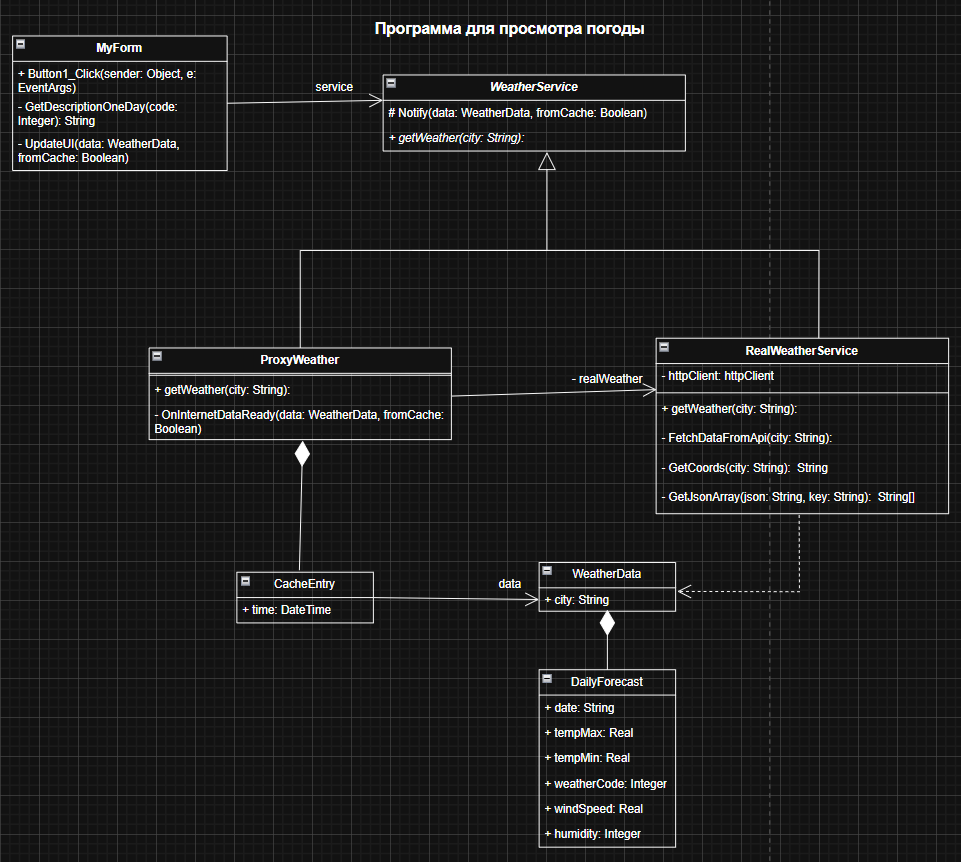
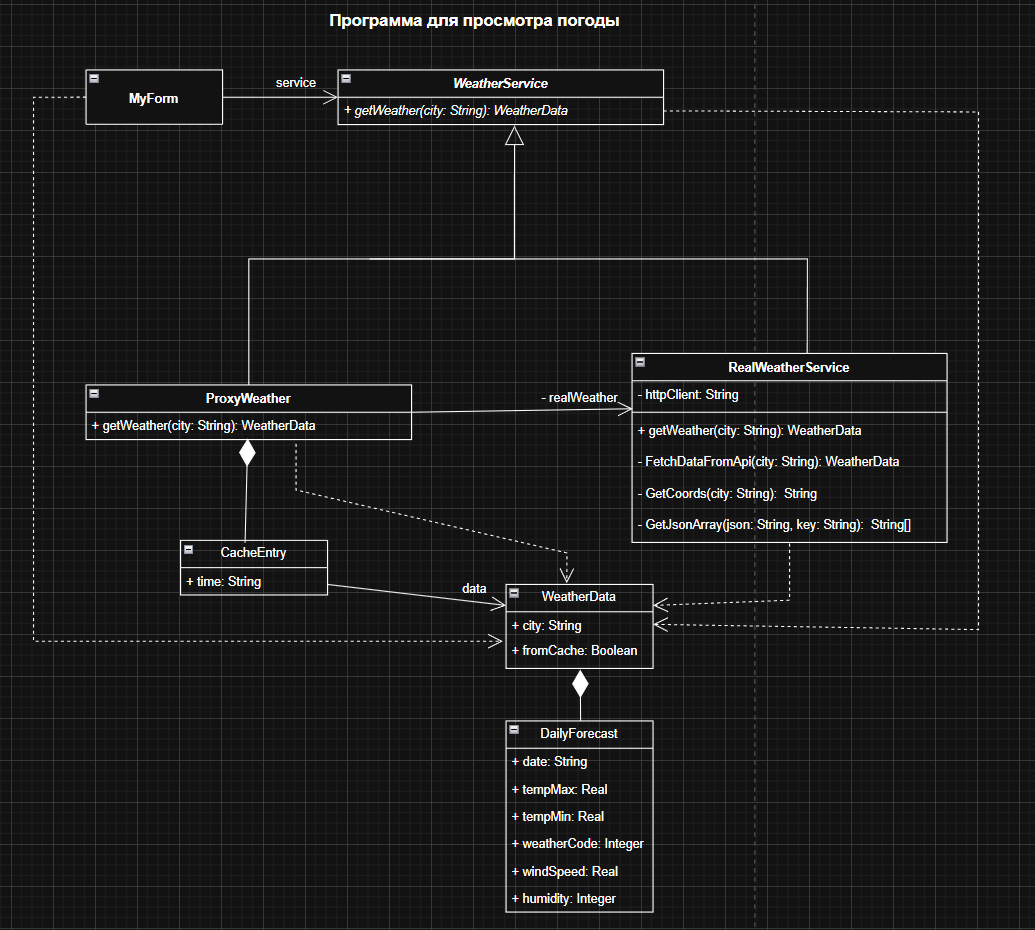
lb2 readme

diff --git a/lab02/lab2/lab2/WeatherLogic.h b/lab02/lab2/lab2/WeatherLogic.h
@@ -161,7 +161,7 @@ namespace lab2 {
 		virtual WeatherData^ getWeather(String^ city) override {
 			// логика кэша
 			if (cache->ContainsKey(city)) {
-				if ((DateTime::Now - cache[city]->time).TotalMinutes < 5) {
+				if ((DateTime::Now - cache[city]->time).TotalMinutes < 15) {
 
 					WeatherData^ cachedData = cache[city]->data; // выдача из кэша
 					cachedData->fromCache = true;

diff --git a/lab02/lab2_no_pattern/lab2/WeatherLogic.h b/lab02/lab2_no_pattern/lab2/WeatherLogic.h
@@ -54,7 +54,7 @@ namespace lab2 {
 		WeatherData^ getWeather(String^ city) {
 			// логика кэша
 			if (cache->ContainsKey(city)) {
-				if ((DateTime::Now - cache[city]->time).TotalMinutes < 5) {
+				if ((DateTime::Now - cache[city]->time).TotalMinutes < 15) {
 
 					WeatherData^ cachedData = cache[city]->data; // выдача из кэша
 					cachedData->fromCache = true;

diff --git a/lab02/README.md b/lab02/README.md
@@ -1,4 +1,29 @@
 ### Отчет
 
-**Диаграмма классов**
+**Описание проблемы.**
+
+В разрабатываемом приложении для просмотра прогноза погоды получение актуальных данных осуществляется через сетевые запросы к внешнему API (Open-Meteo). Основная проблема заключается в том, что пользователи могут многократно запрашивать погоду для одного и того же города за короткий промежуток времени (например, при случайном двойном клике или при частом переключении вкладок). Прямое обращение к внешнему сервису при каждом нажатии кнопки приводит к нерациональному использованию сетевого трафика, задержкам в обновлении пользовательского интерфейса (UI) и риску превышения лимитов на количество запросов к бесплатному API.
+
+**Решение и использование паттерна.**
+
+Для решения описанной проблемы в архитектуру приложения внедрен структурный паттерн проектирования «Заместитель».
+
+Вместо того чтобы форма напрямую обращалась к классу, выполняющему HTTP-запросы, взаимодействие происходит через общий интерфейс (абстрактный класс WeatherService).
+
+- Реальный субъект (RealWeatherService) инкапсулирует сложную логику: формирование URL, геокодинг, скачивание JSON и его парсинг.
+
+- Заместитель (ProxyWeather) перехватывает вызовы от пользовательского интерфейса. Он содержит внутреннюю структуру данных (словарь Dictionary) для хранения уже загруженных прогнозов. При запросе погоды прокси проверяет, есть ли данные для выбранного города в кэше и не устарели ли они (срок жизни кэша установлен на 15 минут). Если данные актуальны, они мгновенно возвращаются из памяти. В противном случае прокси делегирует вызов реальному сервису, получает свежие данные, сохраняет их копию у себя и только затем отдает форме.
+
+**Диаграмма классов для архитектуры приложения с применением паттерна.**
 ![image](images/img1.png)
+Рисунок 1 - паттерн «Заместитель» в архитектуре приложения для просмотра погоды
+
+**Вывод**
+
+Внедрение паттерна «Заместитель» оказало существенное положительное влияние на приложение:
+
+1) Производительность: Повторные запросы для одного и того же города обрабатываются мгновенно, так как исключается задержка на сетевое соединение. Пользовательский интерфейс стал более отзывчивым.
+
+2) Экономия ресурсов: Существенно снизилась нагрузка на внешний погодный API, что предотвращает блокировку приложения со стороны провайдера данных.
+
+3) Чистота архитектуры: Выполнено разделение обязанностей. Код формы (MyForm) остался чистым и отвечает только за отрисовку, класс RealWeatherService занимается исключительно сетью, а ProxyWeather берет на себя управление памятью и кэшем. Система стала гибкой: логику кэширования можно изменять, не затрагивая код интерфейса или парсинга.
